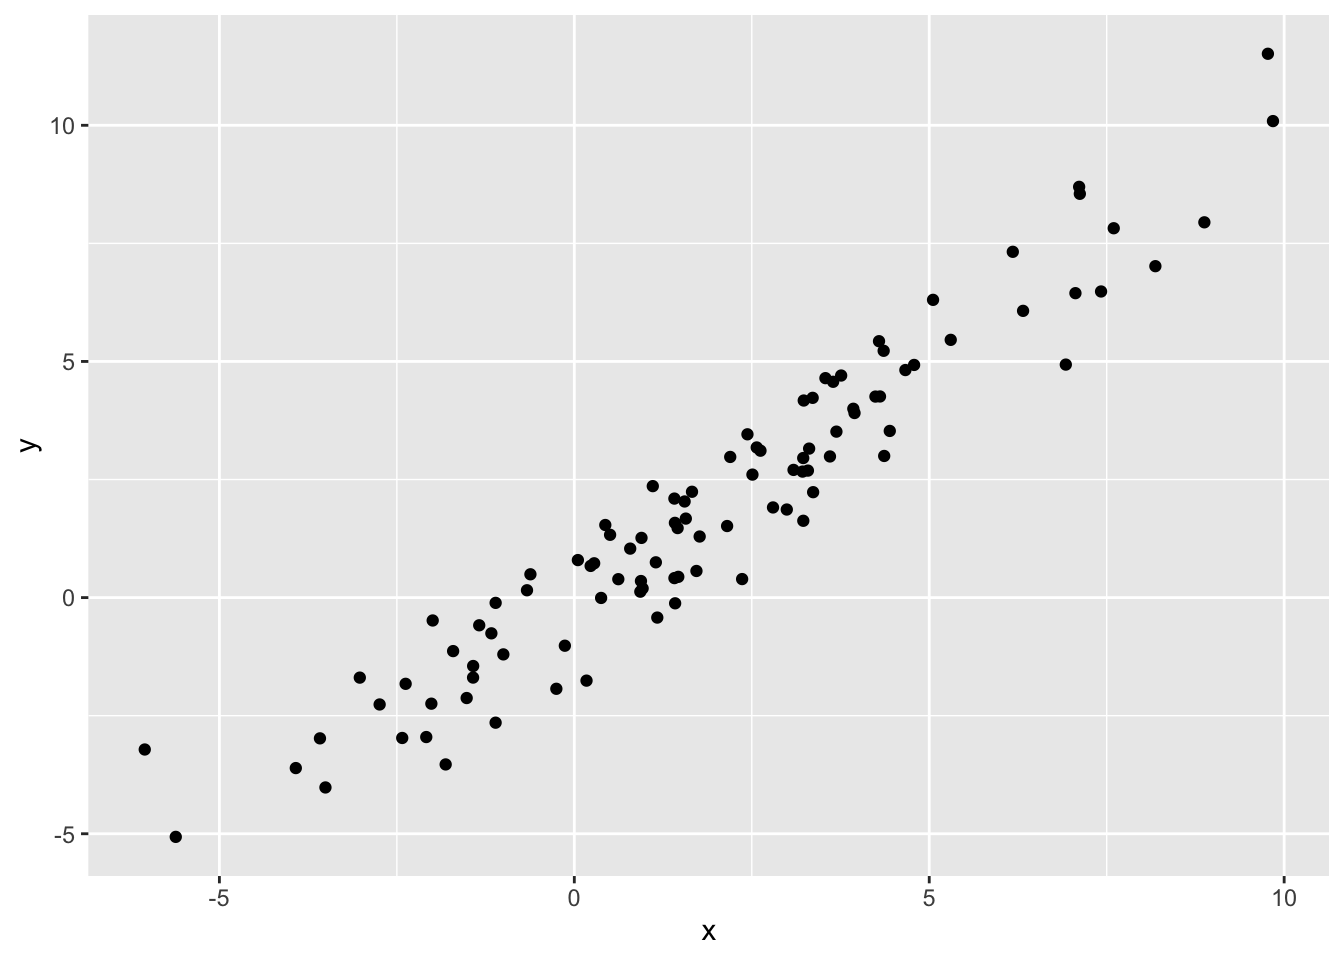
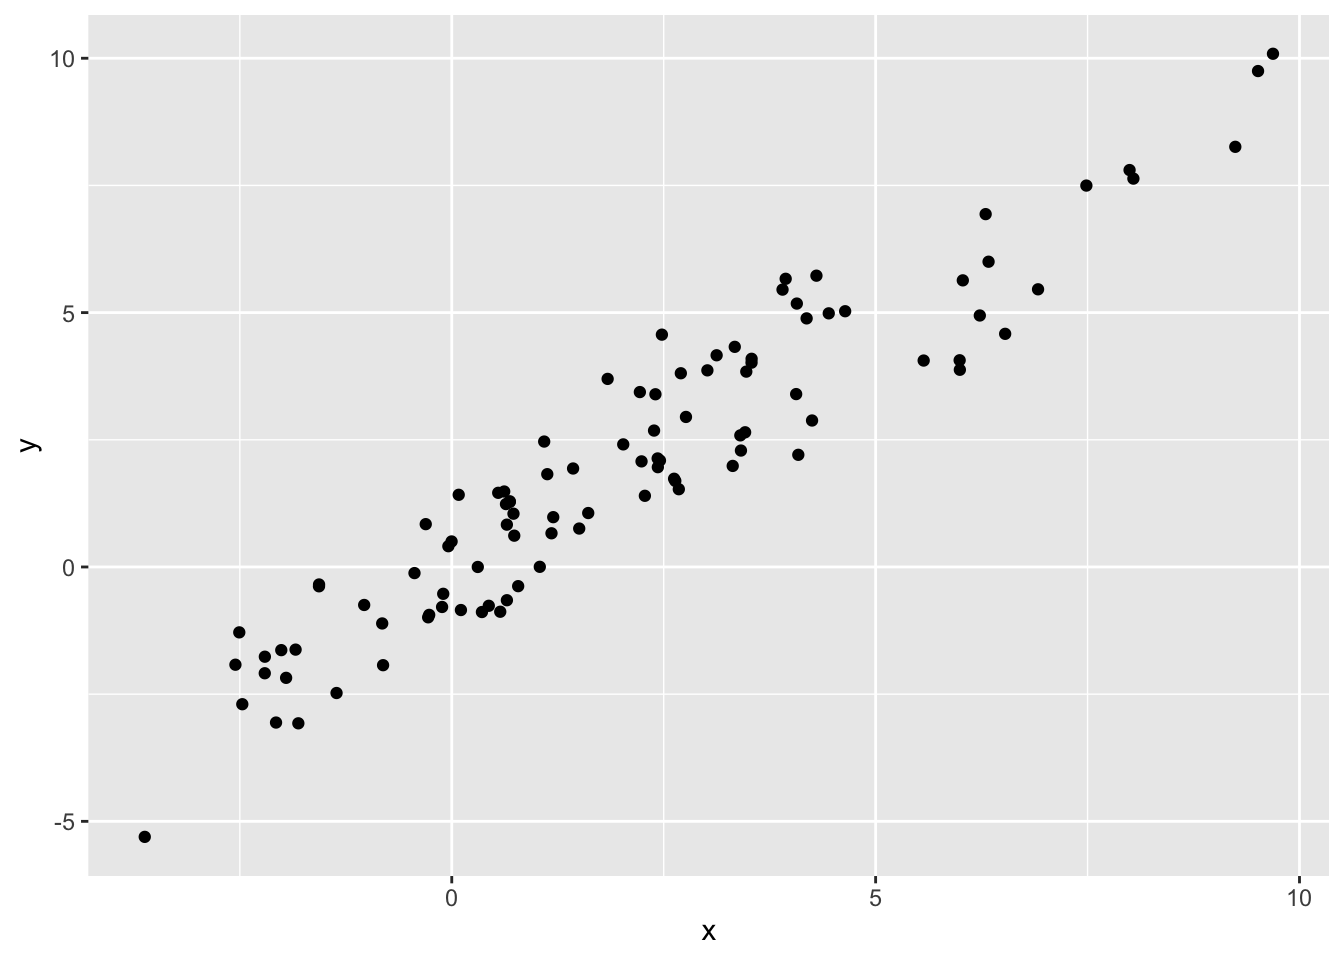
More website

diff --git a/about.html b/about.html
@@ -16,7 +16,7 @@
 <script src="site_libs/header-attrs-2.32/header-attrs.js"></script>
 <script src="site_libs/jquery-3.6.0/jquery-3.6.0.min.js"></script>
 <meta name="viewport" content="width=device-width, initial-scale=1" />
-<link href="site_libs/bootstrap-3.3.5/css/cerulean.min.css" rel="stylesheet" />
+<link href="site_libs/bootstrap-3.3.5/css/cosmo.min.css" rel="stylesheet" />
 <script src="site_libs/bootstrap-3.3.5/js/bootstrap.min.js"></script>
 <script src="site_libs/bootstrap-3.3.5/shim/html5shiv.min.js"></script>
 <script src="site_libs/bootstrap-3.3.5/shim/respond.min.js"></script>

diff --git a/index.html b/index.html
@@ -16,7 +16,7 @@
 <script src="site_libs/header-attrs-2.32/header-attrs.js"></script>
 <script src="site_libs/jquery-3.6.0/jquery-3.6.0.min.js"></script>
 <meta name="viewport" content="width=device-width, initial-scale=1" />
-<link href="site_libs/bootstrap-3.3.5/css/cerulean.min.css" rel="stylesheet" />
+<link href="site_libs/bootstrap-3.3.5/css/cosmo.min.css" rel="stylesheet" />
 <script src="site_libs/bootstrap-3.3.5/js/bootstrap.min.js"></script>
 <script src="site_libs/bootstrap-3.3.5/shim/html5shiv.min.js"></script>
 <script src="site_libs/bootstrap-3.3.5/shim/respond.min.js"></script>

diff --git a/plots.html b/plots.html
@@ -16,7 +16,7 @@
 <script src="site_libs/header-attrs-2.32/header-attrs.js"></script>
 <script src="site_libs/jquery-3.6.0/jquery-3.6.0.min.js"></script>
 <meta name="viewport" content="width=device-width, initial-scale=1" />
-<link href="site_libs/bootstrap-3.3.5/css/cerulean.min.css" rel="stylesheet" />
+<link href="site_libs/bootstrap-3.3.5/css/cosmo.min.css" rel="stylesheet" />
 <script src="site_libs/bootstrap-3.3.5/js/bootstrap.min.js"></script>
 <script src="site_libs/bootstrap-3.3.5/shim/html5shiv.min.js"></script>
 <script src="site_libs/bootstrap-3.3.5/shim/respond.min.js"></script>
